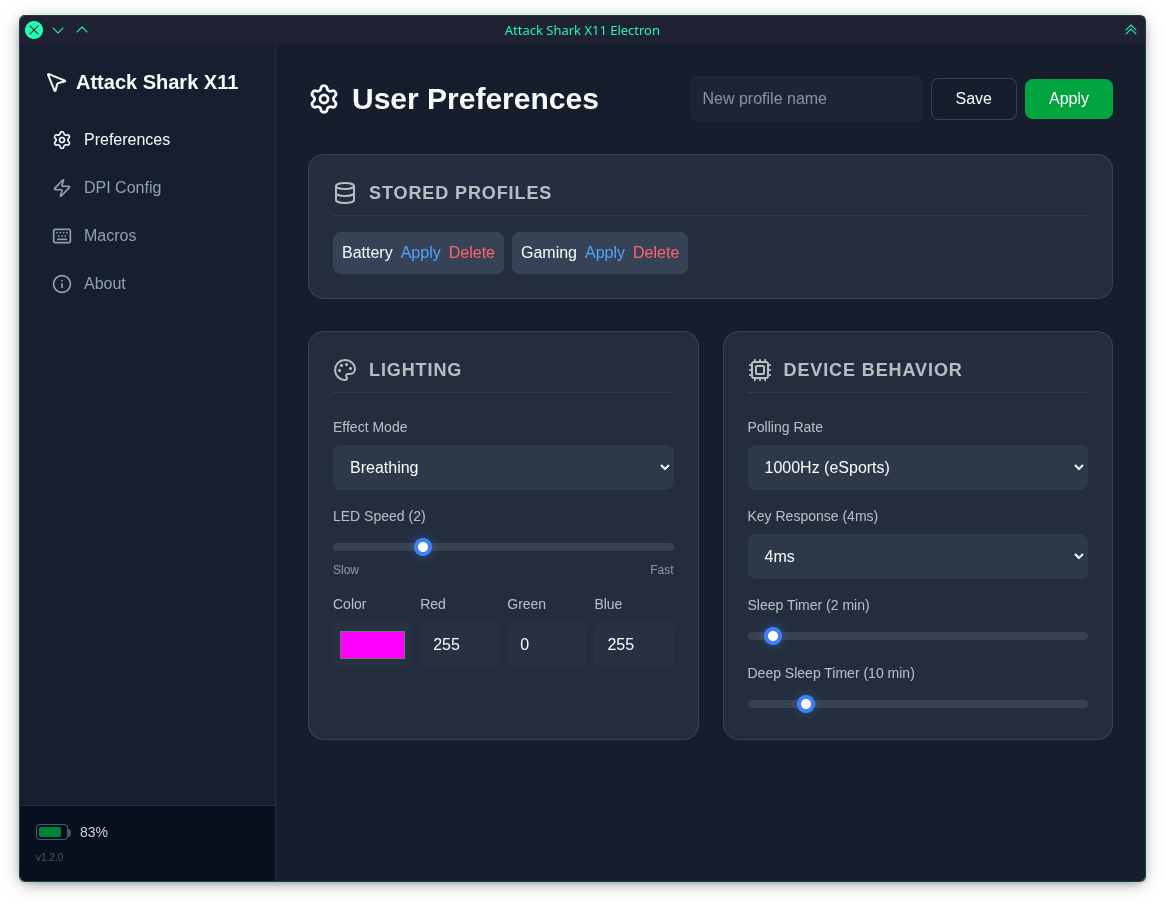
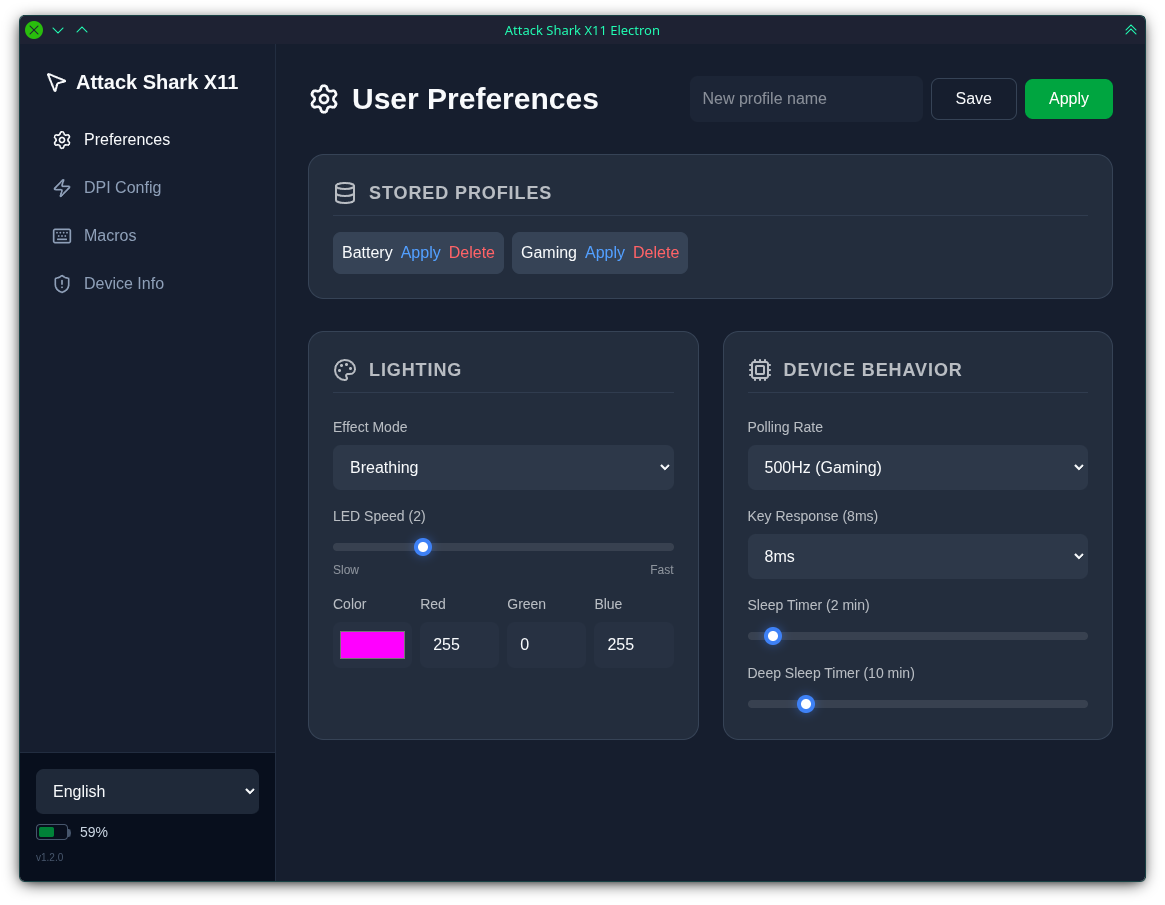
docs: remove obsolete Quick Start section, update asset

Changed region(s): [[0.0, 0.0309, 0.9888, 0.9901], [0.6798, 0.495, 0.7725, 0.526], [0.0618, 0.3094, 0.1236, 0.3403]]

diff --git a/README.md b/README.md
@@ -22,37 +22,6 @@ This repository is an enhanced version of the original driver created by [Haruka
 - ✅ **Battery Status**: Real-time battery monitoring.
 - ✅ **Cross-platform**: Works on Linux, macOS, and Windows.
 
-## Quick Start
-
-```typescript
-import { AttackSharkX11, ConnectionMode, Rate } from 'attack-shark-x11-driver';
-
-const driver = new AttackSharkX11({
-	connectionMode: ConnectionMode.Adapter, // or Wired
-	delayMs: 300, // Recommended safe delay between packets
-});
-
-try {
-	await driver.open();
-
-	// Set Polling Rate to 1000Hz (eSports)
-	await driver.setPollingRate(Rate.eSports);
-
-	// Configure DPI Stages
-	await driver.setDpi({
-		dpiValues: [800, 1600, 2400, 3200, 5000, 22000],
-		activeStage: 2,
-	});
-
-	// Get Battery Level
-	const battery = await driver.getBatteryLevel();
-	console.log(`Battery: ${battery}%`);
-} catch (error) {
-	console.error('Driver error:', error);
-} finally {
-	await driver.close();
-}
-```
 
 ## Linux Setup (udev)
 
